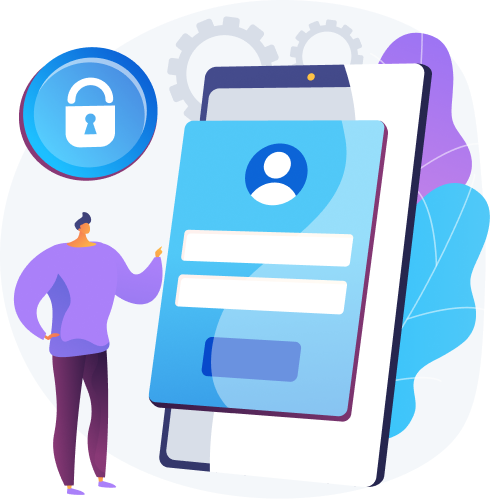
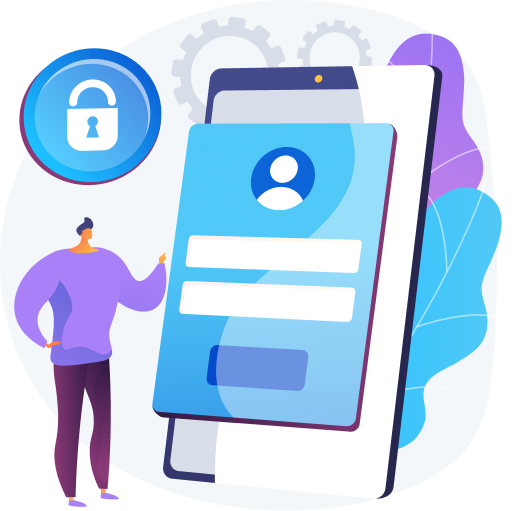
push

diff --git a/style.css b/style.css
@@ -140,9 +140,9 @@
 
 .login-image {
     /* margin-top: 10.677083333333334vw; */
-    width: 25.2921875vw;
-    height: 25.9671875vw;
-    margin-top: 10.677083333333334vw;
+    width: 33.75vw;
+    height: 34.63vw;
+    margin-top: 9.26vw;
 
 }
 
@@ -171,12 +171,13 @@
 
 }
 
+
 .abstract {
     position: absolute;
     left: 16.8125vw;
     top: 24.177083vw;
-    width: 20.833333333333332vw;
-    height: 20.833333333333332vw;
+    width: 27.79vw;
+    height: 27.79vw;
     background: #1DBFFF;
     opacity: 0.8;
     filter: blur(15.625vw);
